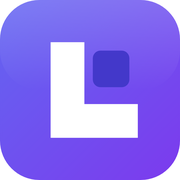
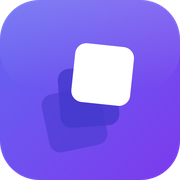
Refactor/boardwright (#26)
* initial commit

* refactor: updated logo

Changed region(s): [[0.2222, 0.2222, 0.7778, 0.8611]]

diff --git a/apps/web/src/components/ui/Logo.tsx b/apps/web/src/components/ui/Logo.tsx
@@ -1,0 +1,49 @@
+interface LogoProps {
+  /** Pixel size of the whole mark (the colored box) — pass the pixel equivalent of whatever Tailwind h-/w- size the call site used before. */
+  size?: number;
+  className?: string;
+  /** Background color class — brand-600 almost everywhere, but the invite page sits on a dark background and uses the lighter brand-500 so the mark doesn't disappear into it. */
+  bgClassName?: string;
+}
+
+/**
+ * The app's brand mark — a colored box with three fanned, overlapping
+ * rounded cards.
+ *
+ * This renders the EXACT same geometry as the static brand asset
+ * (public/brand/logo.svg, also used in the README and the About page) —
+ * same viewBox, same rects, same transforms, copied over rather than
+ * redrawn. An earlier version of this component hand-drew its own
+ * "simplified" two-card version for small sizes, which quietly diverged
+ * into a shape that didn't actually match the real logo anymore. Sharing
+ * the literal geometry is what makes that impossible instead of just
+ * unlikely: there is nothing left here to independently get wrong.
+ *
+ * This is the ONE in-app place the mark is defined. Every header/login/
+ * signup/invite page that shows the app's logo renders this component
+ * rather than each hand-rolling its own wrapper + icon — so a future
+ * restyle is a single edit here instead of hunting down every call site
+ * again the way the icon was briefly out of sync with the name after the
+ * Fluxboard → Boardwright rename, and the way this component itself was
+ * briefly out of sync with the logo it was supposed to be.
+ */
+export function Logo({ size = 24, className = "", bgClassName = "bg-brand-600" }: LogoProps) {
+  return (
+    <div
+      style={{ width: size, height: size }}
+      className={`flex shrink-0 items-center justify-center rounded-[28%] ${bgClassName} ${className}`}
+    >
+      {/* Hardcoded hex, not currentColor — these must render identically to
+          logo.svg regardless of bgClassName (brand-600 here, brand-500 on
+          the dark invite page). Only the outer box color is meant to vary
+          per call site; the card artwork itself never should, or the two
+          "sources of truth" quietly stop matching again, the exact bug
+          this component exists to prevent. */}
+      <svg viewBox="0 0 512 512" width="68%" height="68%" xmlns="http://www.w3.org/2000/svg">
+        <rect x="128" y="256" width="168" height="168" rx="32" fill="#4338ca" fillOpacity="0.55" transform="rotate(-12 212 340)" />
+        <rect x="168" y="192" width="168" height="168" rx="32" fill="#4338ca" fillOpacity="0.8" transform="rotate(-4 252 276)" />
+        <rect x="208" y="128" width="168" height="168" rx="32" fill="#ffffff" transform="rotate(6 292 212)" />
+      </svg>
+    </div>
+  );
+}

diff --git a/apps/web/src/components/ui/Sidebar.tsx b/apps/web/src/components/ui/Sidebar.tsx
@@ -12,8 +12,8 @@ import { getSocket } from "@/lib/socket";
 import { SIDEBAR_SYNC_EVENT, type SidebarSyncDetail } from "@/lib/sidebarSync";
 import { APP_NAME } from "@/lib/constants";
 import { avatarColorFor, initialsFor } from "@/lib/avatar";
+import { Logo } from "./Logo";
 import {
-  LayoutIcon,
   FolderIcon,
   ChevronDownIcon,
   MenuIcon,
@@ -408,9 +408,7 @@ export function Sidebar() {
           <MenuIcon className="h-5 w-5" />
         </button>
         <div className="flex items-center gap-2">
-          <div className="flex h-6 w-6 items-center justify-center rounded-md bg-brand-600 text-white">
-            <LayoutIcon className="h-3.5 w-3.5" />
-          </div>
+          <Logo size={24} />
           <span className="text-sm font-semibold text-slate-800">{APP_NAME}</span>
         </div>
         <div className="ml-auto flex items-center gap-2">
@@ -442,9 +440,7 @@ export function Sidebar() {
             <>
               <div className="flex w-full items-center justify-between gap-2 border-b border-slate-100 px-1 pb-2">
                 <Link href="/workspaces" title={APP_NAME} className="flex items-center">
-                  <div className="flex h-6 w-6 shrink-0 items-center justify-center rounded-lg bg-brand-600 text-white">
-                    <LayoutIcon className="h-4 w-4" />
-                  </div>
+                  <Logo size={24} />
                 </Link>
                 <button
                   onClick={toggleCollapsed}
@@ -463,9 +459,7 @@ export function Sidebar() {
           ) : (
             <>
               <Link href="/workspaces" className="flex min-w-0 items-center gap-2">
-                <div className="flex h-8 w-8 shrink-0 items-center justify-center rounded-lg bg-brand-600 text-white">
-                  <LayoutIcon className="h-4 w-4" />
-                </div>
+                <Logo size={32} />
                 <span className="truncate text-sm font-semibold text-slate-800">{APP_NAME}</span>
               </Link>
               <div className="ml-auto hidden items-center sm:flex">

diff --git a/apps/web/src/app/(app)/about/page.tsx b/apps/web/src/app/(app)/about/page.tsx
@@ -1,6 +1,5 @@
 import Link from "next/link";
 import { APP_NAME, APP_VERSION } from "@/lib/constants";
-import { LayoutIcon } from "@/components/ui/icons";
 
 const features = [
   {
@@ -46,9 +45,13 @@ export default function AboutPage() {
       <div className="mx-auto max-w-4xl px-4 py-8 sm:px-6 sm:py-12 lg:px-10">
         <header className="rounded-2xl border border-slate-200 bg-white p-6 shadow-sm sm:p-8">
           <div className="flex items-start gap-4">
-            <div className="flex h-12 w-12 shrink-0 items-center justify-center rounded-xl bg-brand-600 text-white shadow-sm">
-              <LayoutIcon className="h-6 w-6" />
-            </div>
+            {/* The fixed brand mark — same file as the README banner
+                (public/brand/logo.svg), baked-in colors rather than the
+                theme-tied <Logo> component used for in-app chrome like the
+                sidebar and login screen. This is the one place in the app
+                itself that's meant to represent the brand as a fixed
+                asset, the same way the README does. */}
+            <img src="/brand/logo.svg" alt={`${APP_NAME} logo`} width={48} height={48} className="shrink-0 rounded-[28%] shadow-sm" />
             <div className="min-w-0">
               <p className="text-sm font-semibold text-brand-700">About</p>
               <h1 className="mt-1 text-2xl font-bold tracking-tight text-slate-900 sm:text-3xl">

diff --git a/apps/web/src/app/signup/page.tsx b/apps/web/src/app/signup/page.tsx
@@ -6,7 +6,8 @@ import { useAuth } from "@/context/AuthContext";
 import { ApiError } from "@/lib/apiClient";
 import { emailError as getEmailError, passwordError as getPasswordError } from "@/lib/validation";
 import { PasswordInput } from "@/components/ui/PasswordInput";
-import { LayoutIcon, SpinnerIcon, CheckIcon } from "@/components/ui/icons";
+import { SpinnerIcon, CheckIcon } from "@/components/ui/icons";
+import { Logo } from "@/components/ui/Logo";
 import { APP_NAME } from "@/lib/constants";
 import { AuthPageRedirect } from "@/components/AuthPageRedirect";
 
@@ -60,9 +61,7 @@ export default function SignupPage() {
     <main className="flex min-h-screen items-center justify-center bg-gradient-to-b from-brand-50 via-slate-50 to-slate-50 px-4 py-10">
       <div className="w-full max-w-sm">
         <div className="mb-6 flex flex-col items-center gap-2">
-          <div className="flex h-11 w-11 items-center justify-center rounded-2xl bg-brand-600 text-white shadow-sm">
-            <LayoutIcon className="h-6 w-6" />
-          </div>
+          <Logo size={44} />
           <span className="text-sm font-semibold tracking-tight text-slate-400">{APP_NAME}</span>
         </div>
 

diff --git a/apps/web/src/app/reset-password/[token]/page.tsx b/apps/web/src/app/reset-password/[token]/page.tsx
@@ -6,7 +6,8 @@ import Link from "next/link";
 import { apiFetch, ApiError } from "@/lib/apiClient";
 import { passwordError as getPasswordError } from "@/lib/validation";
 import { PasswordInput } from "@/components/ui/PasswordInput";
-import { LayoutIcon, SpinnerIcon, CheckIcon } from "@/components/ui/icons";
+import { SpinnerIcon, CheckIcon } from "@/components/ui/icons";
+import { Logo } from "@/components/ui/Logo";
 import { APP_NAME } from "@/lib/constants";
 
 export default function ResetPasswordPage() {
@@ -51,9 +52,7 @@ export default function ResetPasswordPage() {
     <main className="flex min-h-screen items-center justify-center bg-gradient-to-b from-brand-50 via-slate-50 to-slate-50 px-4">
       <div className="w-full max-w-sm">
         <div className="mb-6 flex flex-col items-center gap-2">
-          <div className="flex h-11 w-11 items-center justify-center rounded-2xl bg-brand-600 text-white shadow-sm">
-            <LayoutIcon className="h-6 w-6" />
-          </div>
+          <Logo size={44} />
           <span className="text-sm font-semibold tracking-tight text-slate-400">{APP_NAME}</span>
         </div>
 

diff --git a/apps/web/src/app/login/page.tsx b/apps/web/src/app/login/page.tsx
@@ -6,7 +6,8 @@ import { useAuth } from "@/context/AuthContext";
 import { ApiError } from "@/lib/apiClient";
 import { emailError as getEmailError } from "@/lib/validation";
 import { PasswordInput } from "@/components/ui/PasswordInput";
-import { LayoutIcon, SpinnerIcon } from "@/components/ui/icons";
+import { SpinnerIcon } from "@/components/ui/icons";
+import { Logo } from "@/components/ui/Logo";
 import { APP_NAME } from "@/lib/constants";
 import { AuthPageRedirect } from "@/components/AuthPageRedirect";
 
@@ -51,9 +52,7 @@ export default function LoginPage() {
     <main className="flex min-h-screen items-center justify-center bg-gradient-to-b from-brand-50 via-slate-50 to-slate-50 px-4">
       <div className="w-full max-w-sm">
         <div className="mb-6 flex flex-col items-center gap-2">
-          <div className="flex h-11 w-11 items-center justify-center rounded-2xl bg-brand-600 text-white shadow-sm">
-            <LayoutIcon className="h-6 w-6" />
-          </div>
+          <Logo size={44} />
           <span className="text-sm font-semibold tracking-tight text-slate-400">{APP_NAME}</span>
         </div>
 

diff --git a/apps/web/src/app/forgot-password/page.tsx b/apps/web/src/app/forgot-password/page.tsx
@@ -4,7 +4,8 @@ import { useState, FormEvent } from "react";
 import Link from "next/link";
 import { apiFetch, ApiError } from "@/lib/apiClient";
 import { emailError as getEmailError } from "@/lib/validation";
-import { LayoutIcon, SpinnerIcon, LinkIcon, CheckIcon } from "@/components/ui/icons";
+import { SpinnerIcon, LinkIcon, CheckIcon } from "@/components/ui/icons";
+import { Logo } from "@/components/ui/Logo";
 import { APP_NAME } from "@/lib/constants";
 
 /**
@@ -65,9 +66,7 @@ export default function ForgotPasswordPage() {
     <main className="flex min-h-screen items-center justify-center bg-gradient-to-b from-brand-50 via-slate-50 to-slate-50 px-4">
       <div className="w-full max-w-sm">
         <div className="mb-6 flex flex-col items-center gap-2">
-          <div className="flex h-11 w-11 items-center justify-center rounded-2xl bg-brand-600 text-white shadow-sm">
-            <LayoutIcon className="h-6 w-6" />
-          </div>
+          <Logo size={44} />
           <span className="text-sm font-semibold tracking-tight text-slate-400">{APP_NAME}</span>
         </div>
 

diff --git a/apps/web/src/app/invite/[token]/page.tsx b/apps/web/src/app/invite/[token]/page.tsx
@@ -6,6 +6,7 @@ import Link from "next/link";
 import { useAuth } from "@/context/AuthContext";
 import { apiFetch, ApiError } from "@/lib/apiClient";
 import { CheckIcon, LayoutIcon, SpinnerIcon } from "@/components/ui/icons";
+import { Logo } from "@/components/ui/Logo";
 import type { InvitePreview } from "@boardwright/shared-types";
 import { APP_NAME } from "@/lib/constants";
 
@@ -67,9 +68,7 @@ export default function InvitePage() {
       <div className="pointer-events-none absolute -bottom-28 -right-20 h-96 w-96 rounded-full bg-indigo-500/20 blur-3xl" />
       <section className="relative w-full max-w-lg">
         <div className="mb-6 flex items-center justify-center gap-2 text-sm font-semibold tracking-tight text-white/70">
-          <span className="flex h-9 w-9 items-center justify-center rounded-xl bg-brand-500 text-white shadow-lg shadow-brand-950/30">
-            <LayoutIcon className="h-5 w-5" />
-          </span>
+          <Logo size={36} bgClassName="bg-brand-500" className="shadow-lg shadow-brand-950/30" />
           {APP_NAME}
         </div>
 

diff --git a/apps/web/src/lib/constants.ts b/apps/web/src/lib/constants.ts
@@ -1,5 +1,5 @@
 /** Shared app display name, kept consistent across the interface. */
-export const APP_NAME = "Fluxboard";
+export const APP_NAME = "Boardwright";
 
 /** Keep in sync with the web package version. */
-export const APP_VERSION = "1.4.2";
+export const APP_VERSION = "1.4.4";
